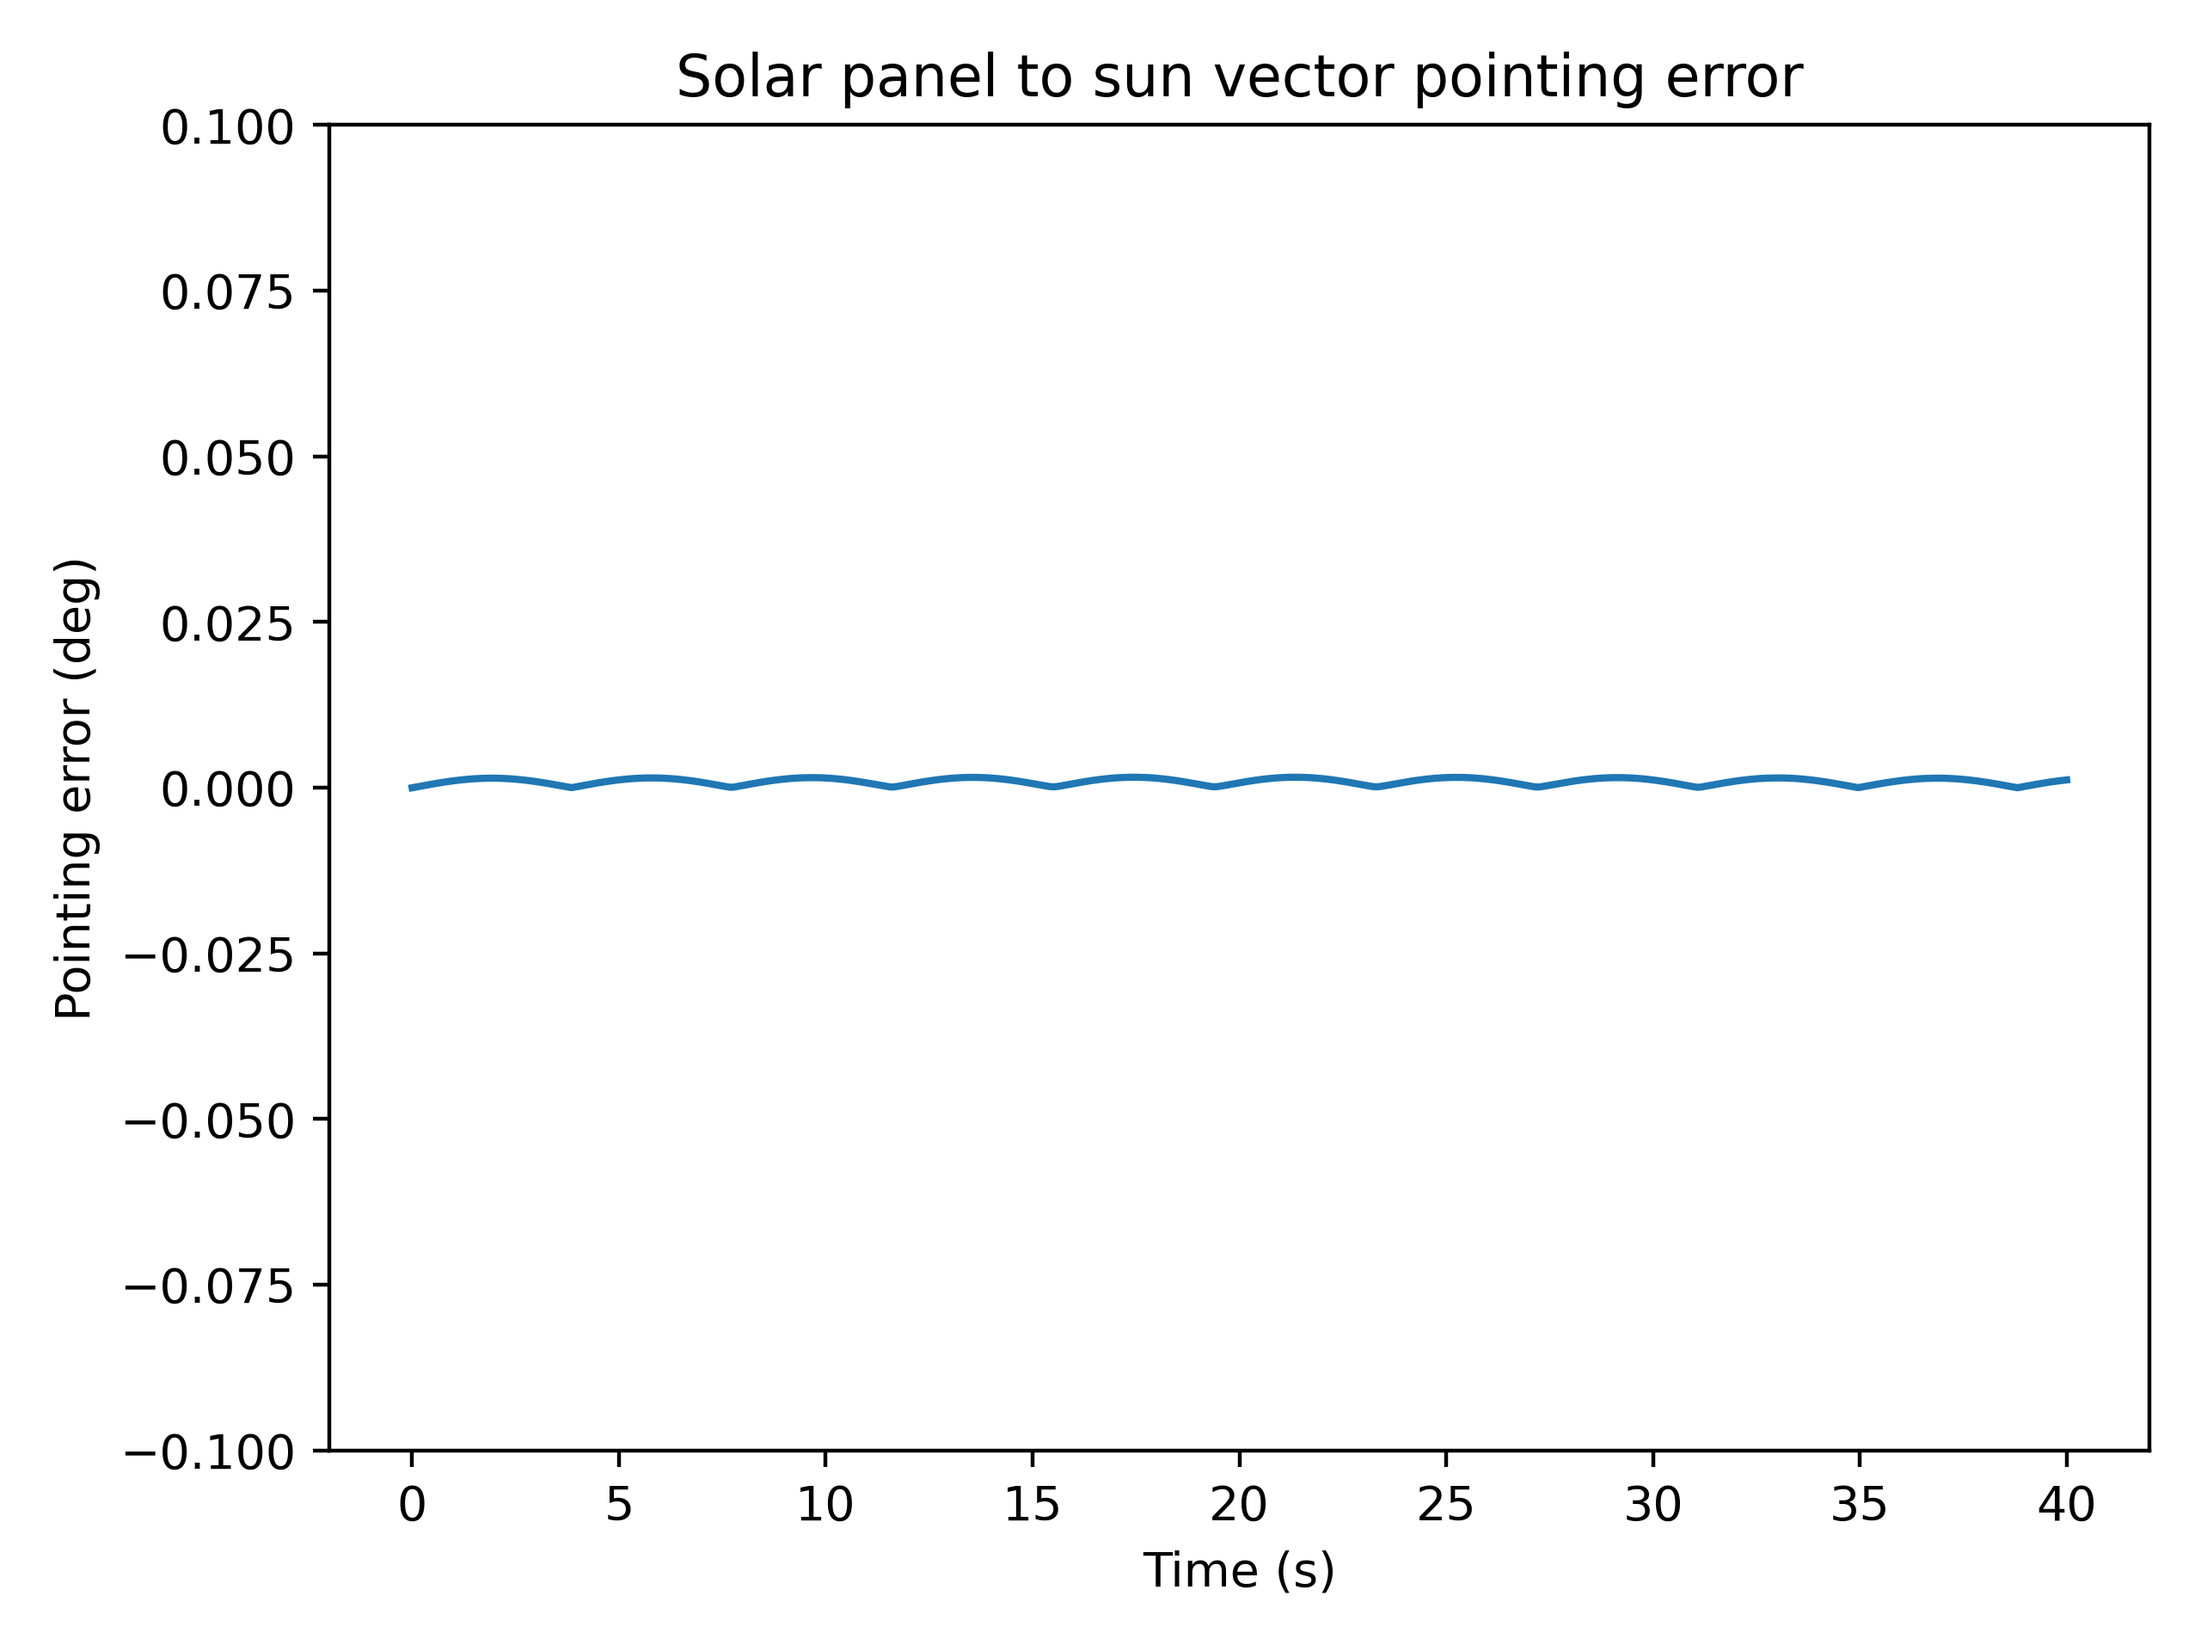
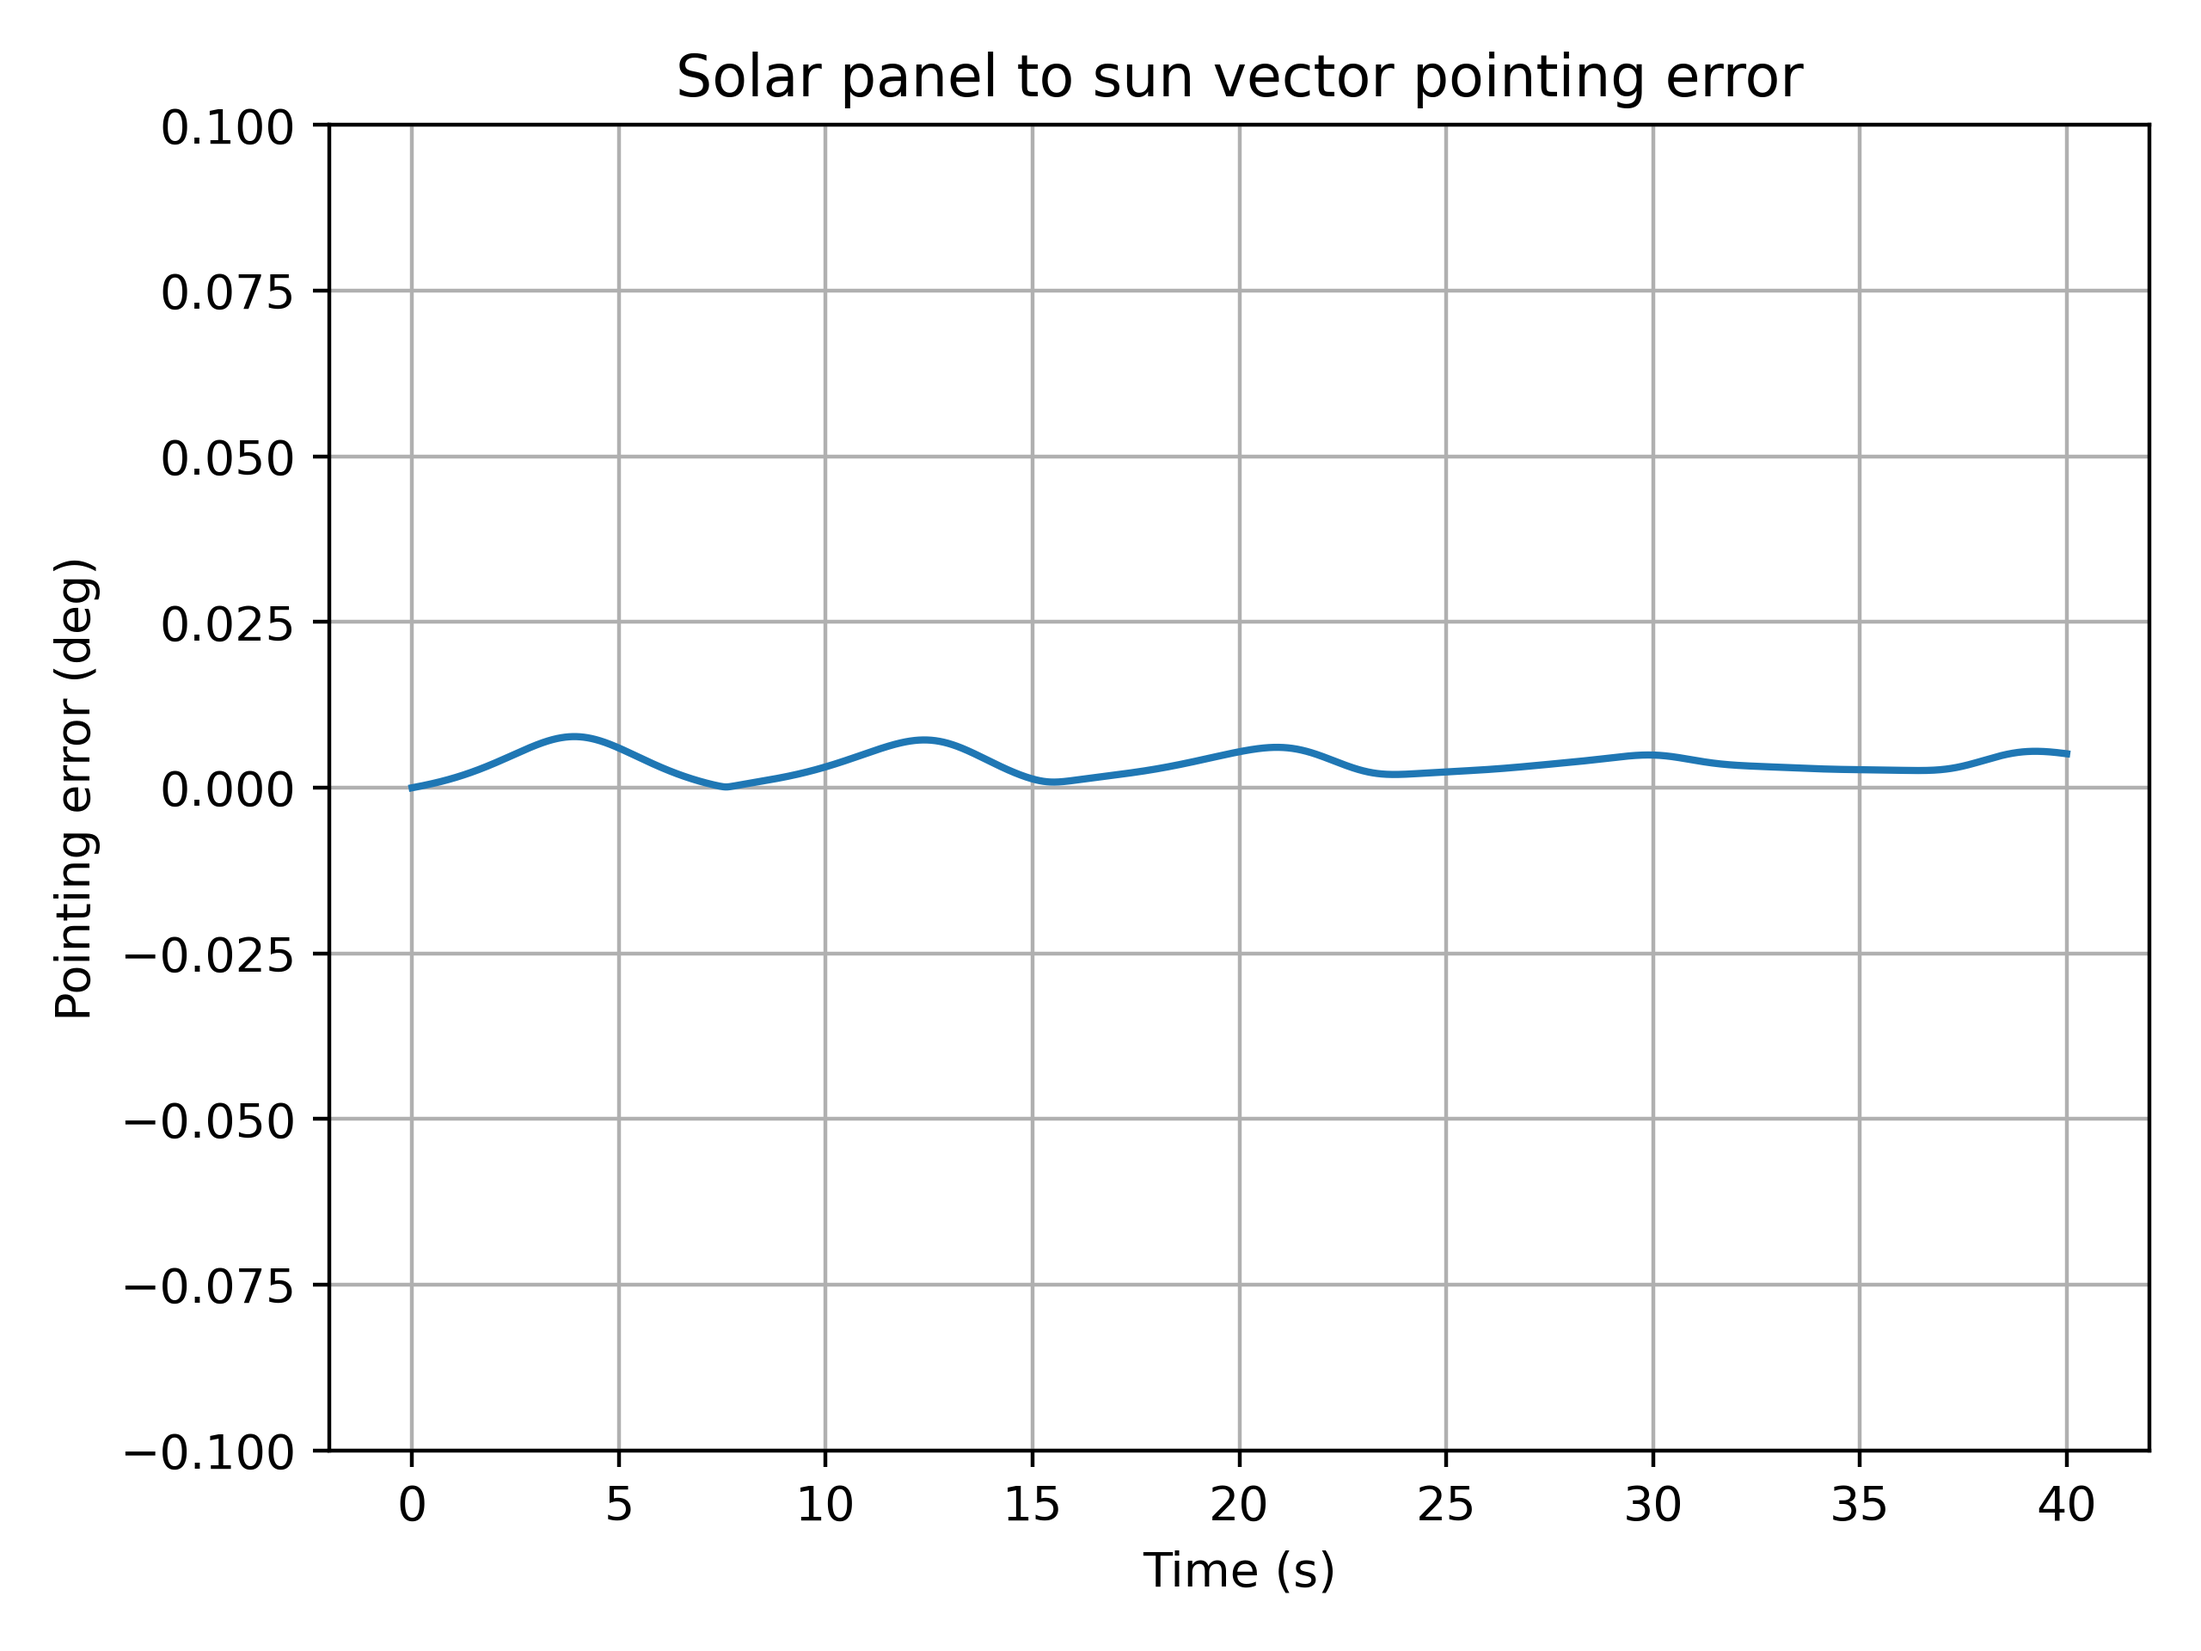
complete hw2

diff --git a/HW2/attitude_sensors.py b/HW2/attitude_sensors.py
@@ -1,0 +1,185 @@
+import numpy as np
+import matplotlib.pyplot as plt
+import scipy
+from time import time
+
+savefig = False
+
+rng = np.random.default_rng()
+t = np.linspace(0, 1, 1000)
+
+### gyro ###
+def get_gyro():
+    return rng.multivariate_normal(np.zeros(3), 0.762*np.eye(3))
+
+y_gyro = np.array([get_gyro() for _ in t])
+
+plt.plot(t, y_gyro[:,0])
+plt.plot(t, y_gyro[:,1])
+plt.plot(t, y_gyro[:,2])
+plt.ylabel("mrad/s")
+plt.title("Gyroscope noise")
+if savefig:
+    plt.savefig("figs/gyro_noise.png", dpi=400)
+
+print("Gyroscope Covariance")
+print(np.cov(y_gyro.T))
+
+### magnetometer ###
+def get_mag():
+    return rng.multivariate_normal(np.zeros(3), 277.8*np.eye(3))
+
+y_mag = np.array([get_mag() for _ in t])
+
+plt.figure()
+plt.plot(t, y_mag[:,0])
+plt.plot(t, y_mag[:,1])
+plt.plot(t, y_mag[:,2])
+plt.ylabel("nT")
+plt.title("Magnetometer noise")
+if savefig:
+    plt.savefig("figs/mag_noise.png", dpi=400)
+
+print("Magnetometer Covariance")
+print(np.cov(y_mag.T))
+
+### sun sensor ###
+def get_sun():
+    return rng.multivariate_normal(np.zeros(2), 3.05*np.eye(2))
+
+y_sun = np.array([get_sun() for _ in t])
+
+plt.figure()
+plt.plot(t, y_sun[:,0])
+plt.plot(t, y_sun[:,1])
+plt.ylabel("mrad")
+plt.title("Sun Sensor noise")
+if savefig:
+    plt.savefig("figs/sun_noise.png", dpi=400)
+
+print("Sun Sensor Covariance")
+print(np.cov(y_sun.T))
+
+### earth horizon sensor ###
+def get_earth():
+    return rng.multivariate_normal(np.zeros(2), 33.8*np.eye(2))
+
+y_earth = np.array([get_earth() for _ in t])
+
+plt.figure()
+plt.plot(t, y_earth[:,0])
+plt.plot(t, y_earth[:,1])
+plt.ylabel("mrad")
+plt.title("Earth Horizon Sensor noise")
+if savefig:
+    plt.savefig("figs/earth_noise.png", dpi=400)
+
+print("Earth Horizon Sensor Covariance")
+print(np.cov(y_earth.T))
+
+
+#### STATIC ATTITUDE ESTIMATION ####
+
+def hat(v):
+    v = v.reshape(3,)
+    return np.array([[0, -v[2], v[1]],
+                     [v[2], 0, -v[0]],
+                     [-v[1], v[0], 0]])
+
+def L(q):
+    s = q[0]
+    v = q[1:].reshape(3,1)
+    return np.block([[s, -v.T],
+                    [v, s*np.eye(3)+hat(v)]])
+
+def R(q):
+    s = q[0]
+    v = q[1:].reshape(3,1)
+    return np.block([[s, -v.T],
+                     [v, s*np.eye(3)-hat(v)]])
+
+H = np.block([[np.zeros(3)],
+              [np.eye(3)]])
+
+def makeQ(q):
+    return H.T @ L(q) @ R(q).T @ H
+
+svd_time_arr = []
+dav_time_arr = []
+svd_error_arr = []
+dav_error_arr = []
+
+for _ in range(1000):
+
+    w = np.array([3, 2, 1]) # weights
+    M_true_B = np.array([30000, 0, 0]) # nT
+    M_measured = M_true_B + get_mag()
+
+    M_true_B = M_true_B / np.linalg.norm(M_true_B)
+    M_measured = M_measured / np.linalg.norm(M_measured)
+
+    S_true_B = np.array([np.sqrt(2)/2, np.sqrt(2)/2, 0])
+    S_error = get_sun()/1000
+    S_measured = S_true_B + np.array([np.sin(S_error[0]), np.sin(S_error[1]), 0])
+    S_measured = S_measured / np.linalg.norm(S_measured)
+
+    E_true_B = np.array([0, 0, 1])
+    E_error = get_earth()/1000
+    E_measured = E_true_B + np.array([np.sin(E_error[0]), np.sin(E_error[1]), 0])
+    E_measured = E_measured / np.linalg.norm(E_measured)
+    
+    phi = np.random.randn(3)
+    Q = scipy.linalg.expm(hat(phi))
+
+    M_true_N = Q @ M_true_B
+    S_true_N = Q @ S_true_B
+    E_true_N = Q @ E_true_B
+
+    ### SVD Method ###
+    svd_start = time()
+    B = w[0]*np.outer(M_measured, M_true_N) + w[1]*np.outer(S_measured, S_true_N) + w[2]*np.outer(E_measured, E_true_N)
+    U, S, Vh = np.linalg.svd(B)
+    Q_est_svd = Vh.T @ U.T
+    svd_time = time()-svd_start
+
+    ### Davenport q Method ###
+    dav_start = time()
+    D = w[0]*L(H@M_true_N).T@R(H@M_measured) + w[1]*L(H@S_true_N).T@R(H@S_measured) + w[2]*L(H@E_true_N).T@R(H@E_measured)
+    eigval, eigvec = np.linalg.eig(D)
+    idx = np.argmax(eigval)
+    q_est = eigvec[:, idx]
+    dav_time = time()-dav_start
+    Q_est_dav = makeQ(q_est)
+
+    test_vec = np.array([1, 0, 0])
+    inertial_est_svd = Q_est_svd @ test_vec
+    inertial_est_dav = Q_est_dav @ test_vec
+    inertial_true = Q @ test_vec
+
+    svd_error = np.arccos(np.dot(inertial_est_svd, inertial_true) / (np.linalg.norm(inertial_est_svd)*np.linalg.norm(inertial_true)))
+    dav_error = np.arccos(np.dot(inertial_est_dav, inertial_true) / (np.linalg.norm(inertial_est_dav)*np.linalg.norm(inertial_true)))
+
+    svd_time_arr.append(svd_time)
+    dav_time_arr.append(dav_time)
+    svd_error_arr.append(np.rad2deg(svd_error))
+    dav_error_arr.append(np.rad2deg(dav_error))
+
+print("SVD METHOD")
+print("Time")
+print(f"  Mean: {np.mean(svd_time_arr)}")
+print(f"  Variance: {np.var(svd_time_arr)}")
+print("Error")
+print(f"  Mean: {np.mean(svd_error_arr)}")
+print(f"  Variance: {np.var(svd_error_arr)}")
+
+print("DAVENPORT Q METHOD")
+print("Time")
+print(f"  Mean: {np.mean(dav_time_arr)}")
+print(f"  Variance: {np.var(dav_time_arr)}")
+print("Error")
+print(f"  Mean: {np.mean(dav_error_arr)}")
+print(f"  Variance: {np.var(dav_error_arr)}")
+
+plt.figure()
+plt.plot([i for i in range(len(svd_error_arr))], svd_error_arr)
+plt.show()

diff --git a/HW2/spacecraft_dynamics.py b/HW2/spacecraft_dynamics.py
@@ -5,9 +5,12 @@ import scipy
 mu = 398600.4418 # [km/s]
 Re = 6371 # km
 h = 360 # km
-J = np.array([[ 2.40287398e-02, 1.49601815e-06, -2.52300907e-06],
-              [1.49601815e-06, 1.94085242e-02, 1.38145802e-08],
-              [-2.52300907e-06, 1.38145802e-08, 1.91983127e-02]])
+# J = np.array([[ 2.40287398e-02, 1.49601815e-06, -2.52300907e-06],
+#               [1.49601815e-06, 1.94085242e-02, 1.38145802e-08],
+#               [-2.52300907e-06, 1.38145802e-08, 1.91983127e-02]])
+J = np.array([[4.60287277e-02, 1.29582415e-05, -1.85057286e-05],
+              [ 1.29582415e-05, 6.00852798e-03, -3.25457556e-07],
+              [-1.85057286e-05, -3.25457556e-07, 1.05983211e-02]])
 
 def keplerian2ECI(a, e, i, RAAN, AOP, theta):
     # luckily i had this conversion in my back pocket from an old project
@@ -56,10 +59,13 @@ q0, q1, q2, q3 = [np.sqrt(2)/2, 0, -np.sqrt(2)/2, 0]
 q_init = np.array([q0, q1, q2, q3])
 
 ### initial angular velocity
-wx, wy, wz = [-0.06528897, 0.01556466, 0.87878852] # from previous part
+# wx, wy, wz = [-0.06528897, 0.01556466, 0.87878852] # from previous part
+# wx, wy, wz = [-0.06528897, 0.01556466, 0.87878852]
+wx, wy, wz = [-0.06528897, 0.01556466, 0.87878852]
 
 ### rotor momentum
-rhox, rhoy, rhoz = [2.64208892e-06, -1.44665945e-08, 1.83486680e-02]
+# rhox, rhoy, rhoz = [2.64208892e-06, -1.44665945e-08, 1.83486680e-02]
+rhox, rhoy, rhoz = [1.93791536e-05, 3.40818356e-07, 2.73545582e-02]
 
 ### get initial state ###
 x, y, z, vx, vy, vz = keplerian2ECI(a, e, i, RAAN, AOP, theta0)
@@ -101,6 +107,8 @@ def dynamics(state, t):
     r = state[:3]
     v = state[3:6]
     q = state[6:10]
+    q = q / np.linalg.norm(q)
+
     w = state[10:13]
     rho = state[13:16]
 
@@ -193,6 +201,7 @@ plt.xlabel("Time (s)")
 plt.ylabel("Pointing error (deg)")
 plt.ylim([-0.1, 0.1])
 plt.title("Solar panel to sun vector pointing error")
+plt.grid("true")
 plt.tight_layout()
 plt.savefig("figs/pointing_error.png", dpi=400)
 plt.show()

diff --git a/HW2/safe_mode.py b/HW2/safe_mode.py
@@ -8,9 +8,9 @@ rng = np.random.default_rng(4)
 J11 = 0.0086
 J22 = 0.022
 J33 = 0.0306
-J = np.array([[J11, 0, 0],
-              [0, J22, 0],
-              [0, 0, J33]])
+J = np.array([[J33, 0, 0],
+              [0, J11, 0],
+              [0, 0, J22]])
 
 # eigendecomposition
 D = J
@@ -18,11 +18,11 @@ V = np.eye(3)
 
 # perturb eigendecomposition
 mean = np.zeros(3)
-d_cov = np.array([[J11*0.01, 0, 0],
-                  [0, J22*0.01, 0],
-                  [0, 0, J33*0.01]])
+d_cov = np.array([[J33*0.01, 0, 0],
+                  [0, J11*0.01, 0],
+                  [0, 0, J22*0.01]])
 d = rng.multivariate_normal(mean, d_cov).reshape(3,)
-v = J11*0.1*rng.random((3,))
+v = rng.multivariate_normal(mean, 0.1*np.eye(3))
 
 def hat(v):
     v = v.reshape(3,)
@@ -86,6 +86,8 @@ dt = 0.01
 
 perturb = rng.normal(0, ws/10, 3).reshape(3,1)
 w_perturbed = w + perturb
+print("Perturbed angular velocity")
+print(w_perturbed)
 
 state_values, t_values = RK4_integrate(attitude_dynamics, w_perturbed, 0, tf, dt)
 
